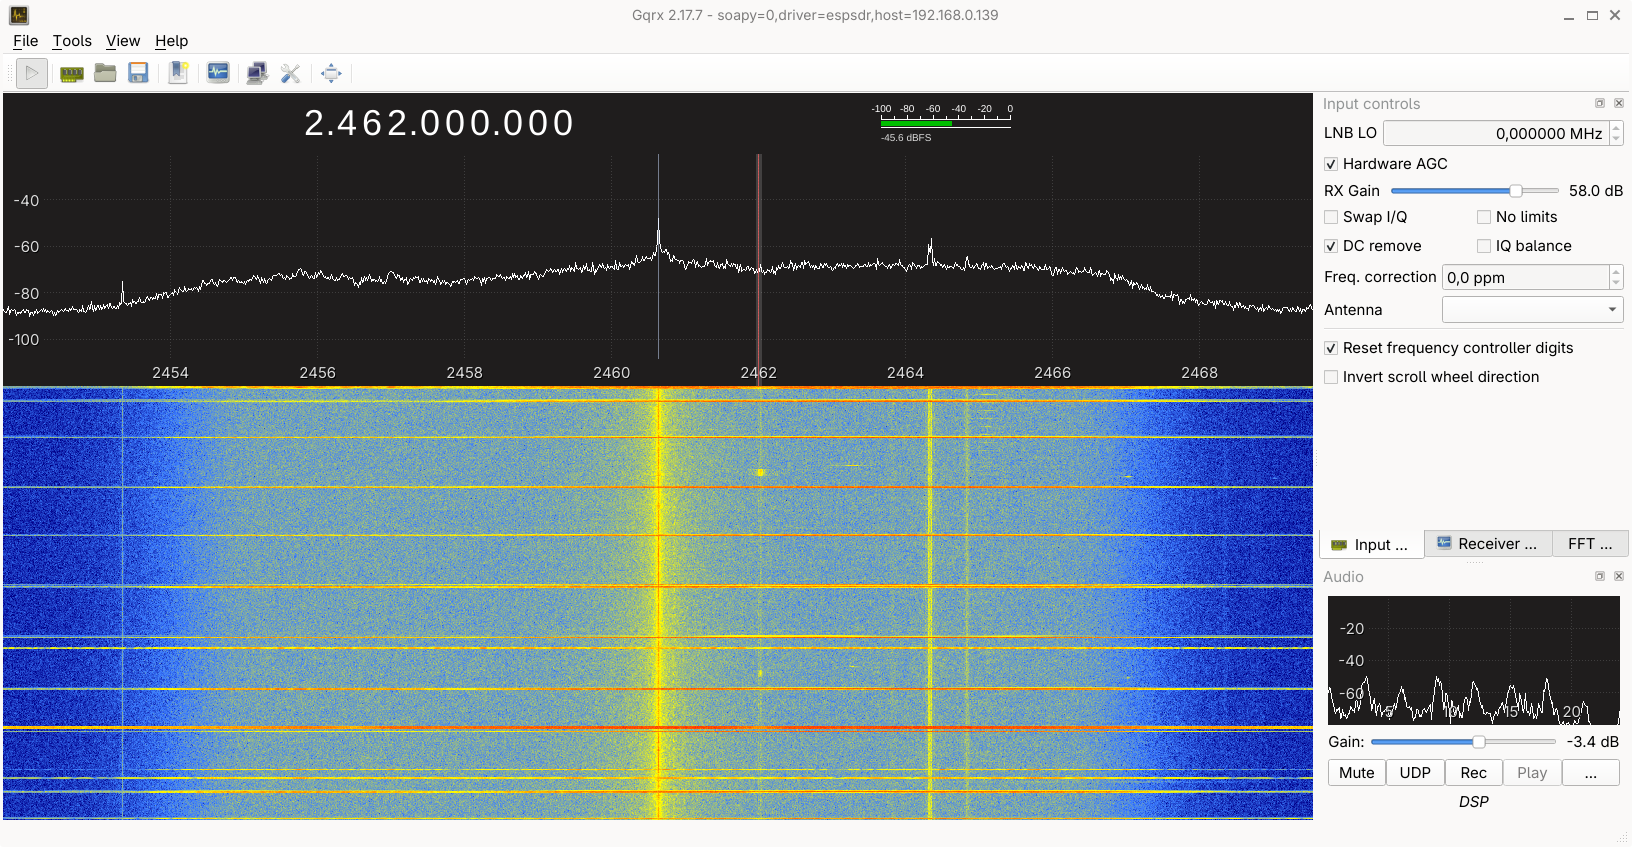
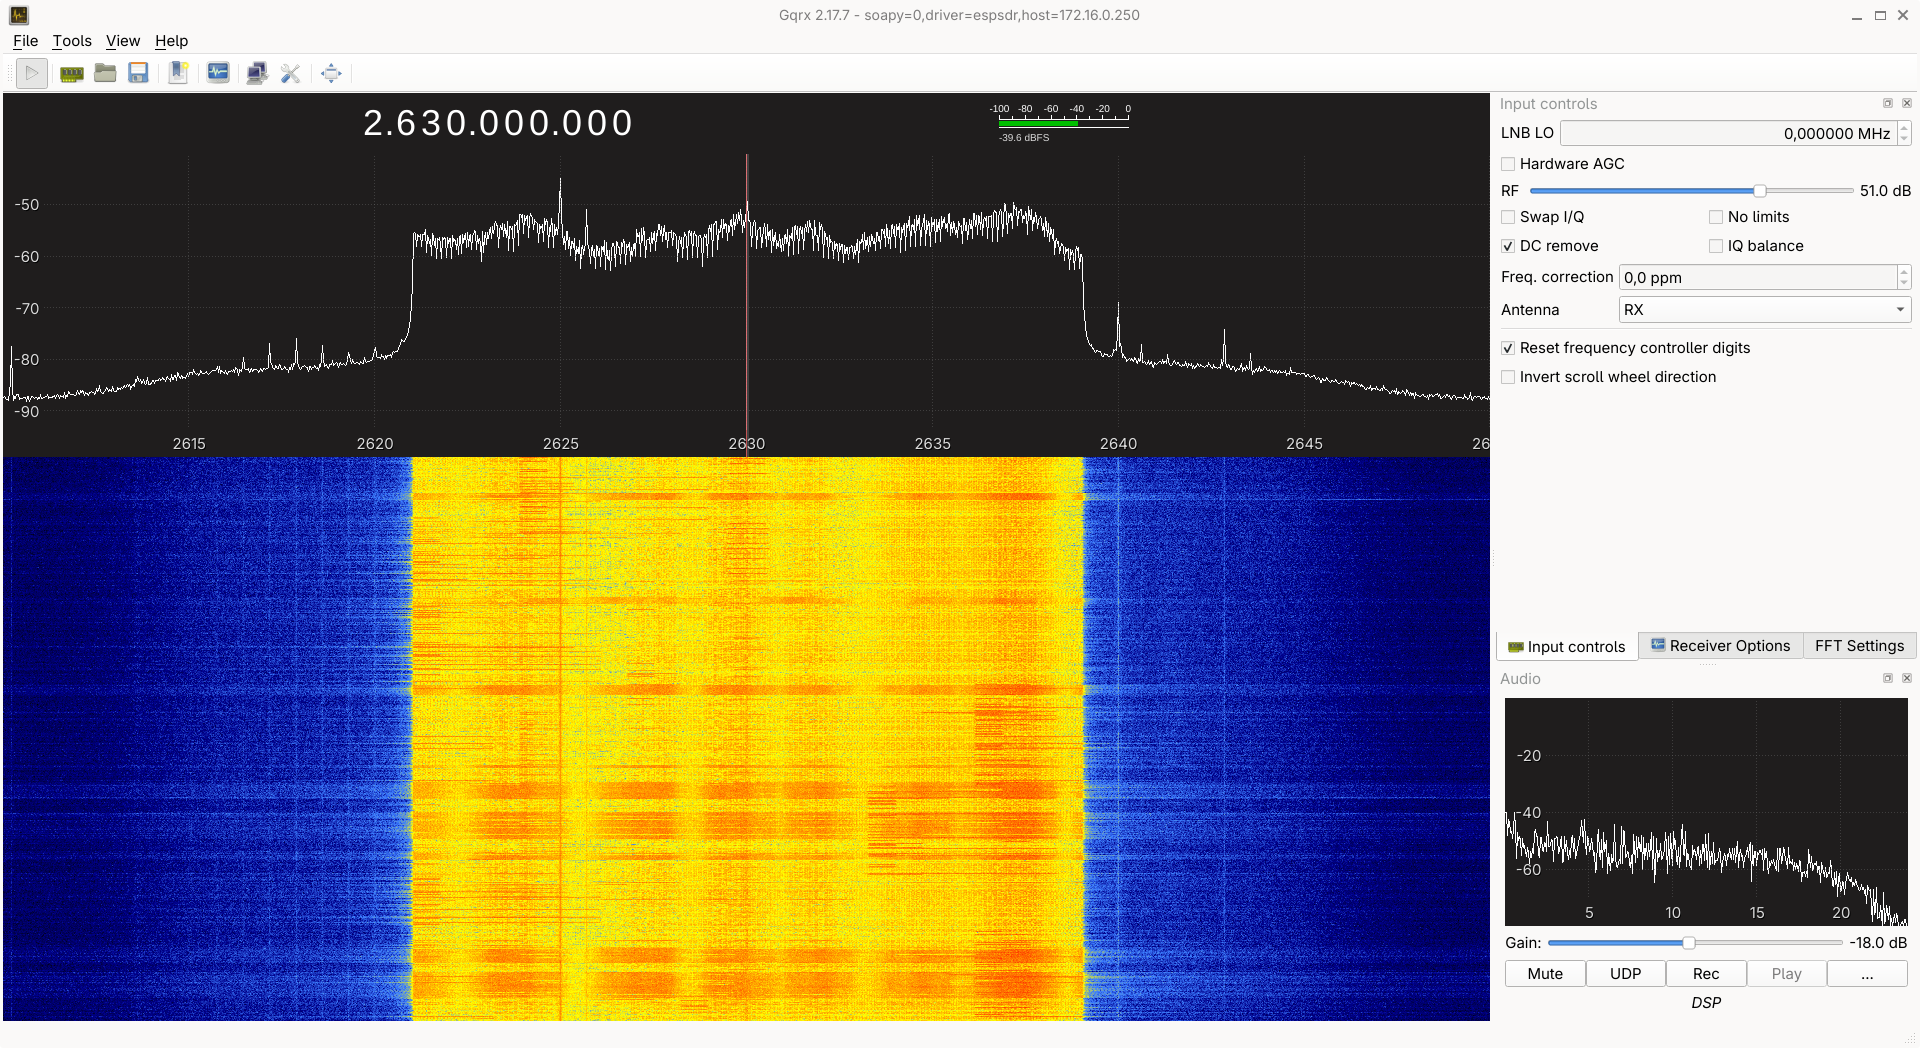
Update SoapyESPSDR info

diff --git a/site/content/espsdr/_index.html b/site/content/espsdr/_index.html
@@ -230,37 +230,71 @@ menu:
 			</figcaption>
 		</figure>
 		<p>
-			Therefore, our firmware streams the IQ samples at a very low duty cycle, which is enough to display a live spectrum and waterfall in the browser.
-			Packets that arrive between capture windows may be missed.
+			The serial burst-capture profiles transfer IQ samples at a low duty cycle, which is enough to display a live spectrum and waterfall in the browser.
+			Packets that arrive between capture windows may be missed. The ESP32-S31 streaming profile
+			offers continuous IQ reception over high-speed USB or Gigabit Ethernet, as described below.
 		</p>
 
-		<h2 id="soapyespsdr" class="fw-bold mb-3 mt-4">SoapyESPSDR: GNU Radio &amp; gqrx</h2>
+		<h2 id="soapyespsdr" class="fw-bold mb-3 mt-4">SoapyESPSDR: GNU Radio &amp; Gqrx</h2>
+		<div class="row row-cols-1 row-cols-sm-2 g-3 mb-4">
+			<div class="col">
+				<div class="border rounded-3 p-4 h-100">
+					<h3 class="h6 text-body-secondary mb-2">High-speed USB</h3>
+					<p class="h2 text-primary fw-bold mb-2">Up to 20 MSa/s</p>
+					<p class="mb-0">Continuous IQ reception through the native USB port.</p>
+				</div>
+			</div>
+			<div class="col">
+				<div class="border rounded-3 p-4 h-100">
+					<h3 class="h6 text-body-secondary mb-2">Gigabit Ethernet</h3>
+					<p class="h2 text-primary fw-bold mb-2">Up to 40 MSa/s</p>
+					<p class="mb-0">Continuous IQ reception over a gigabit network.</p>
+				</div>
+			</div>
+		</div>
 		<div class="row align-items-center g-4">
 			<div class="col-12 col-lg-5">
 				<p>
-					<a href="https://github.com/ESPARGOS/SoapyESPSDR">SoapyESPSDR</a> is our receive-only
-					SoapySDR driver for the <b>ESP32-S31</b>. It streams IQ samples over Gigabit Ethernet
-					from a board running ESP-SDR firmware, making the receiver available to applications such as
-					<b>GNU Radio</b> and <b>gqrx</b> through their SoapySDR support.
+					<a href="https://github.com/ESPARGOS/SoapyESPSDR">SoapyESPSDR</a> is our open-source,
+					receive-only SoapySDR driver for the <b>ESP32-S31</b>. It brings continuous IQ samples
+					to desktop applications: listen to signals in <b>Gqrx</b>, record samples, or build
+					your own demodulator in <b>GNU Radio</b>.
 				</p>
 				<p>
-					The S31 supports continuous reception at 8 and 16 MSa/s; higher sample rates require a reduced
-					duty cycle.
+					<b>Experimental:</b> The firmware and driver are available now. Signal quality may not yet be optimal.
 				</p>
-				<p>
-					<b>Under development:</b> We will release firmware and SoapySDR driver repositories soon, once everything is ready.
-				</p>
-				<button type="button" class="btn btn-secondary px-4" disabled aria-describedby="soapyespsdr-coming-soon">Download SoapyESPSDR</button>
-				<p id="soapyespsdr-coming-soon" class="text-muted small mt-2 mb-0">Coming soon.</p>
+				<section class="setup-step setup-step-compact border rounded p-3 my-2">
+					<h3 class="setup-step-heading h5 mt-0 mb-2">
+						<span class="setup-step-number">1</span>
+						<span>Flash the streaming firmware</span>
+					</h3>
+					<p class="mb-2">
+						Connect an <b>ESP32-S31 Function-CoreBoard</b> through its USB debug port or UART adapter.
+						In the web flasher, select the <b>ESP32-S31 Function-CoreBoard · Ethernet / USB for SoapyESPSDR</b> profile and install the firmware.
+					</p>
+					<a href="/espsdr/app/flash.html" class="btn btn-dark px-3">Open firmware flasher</a>
+				</section>
+				<section class="setup-step setup-step-compact border rounded p-3 mt-2 mb-0">
+					<h3 class="setup-step-heading h5 mt-0 mb-2">
+						<span class="setup-step-number">2</span>
+						<span>Connect your SDR application</span>
+					</h3>
+					<p class="mb-2">
+						Install SoapyESPSDR on your Linux computer, then connect the board through its
+						native high-speed USB port or Ethernet. Follow the setup guide to select the
+						receiver in Gqrx, GNU Radio, or another SoapySDR-compatible application.
+					</p>
+					<a href="https://github.com/ESPARGOS/SoapyESPSDR#build-and-install" class="btn btn-dark px-3">Install and set up SoapyESPSDR</a>
+				</section>
 			</div>
 			<figure class="col-12 col-lg-7 mb-0">
-				<a href="/espsdr/gqrx-esp-sdr.png" aria-label="View the gqrx screenshot at full size">
+				<a href="/espsdr/gqrx-esp-sdr.png" aria-label="View the Gqrx LTE screenshot at full size">
 					<img src="/espsdr/gqrx-esp-sdr.png" class="d-block img-fluid w-100 rounded-3"
-						alt="gqrx connected to an ESP32-S31 using the SoapyESPSDR driver, displaying the spectrum and waterfall around 2.462 GHz."
-						width="1632" height="847" loading="lazy">
+						alt="Gqrx displaying the spectrum and waterfall of an LTE signal at 2.63 GHz, continuously sampled at 40 MSa/s by an ESP32-S31 over Ethernet using SoapyESPSDR."
+						width="1920" height="1048" loading="lazy">
 				</a>
 				<figcaption class="text-muted text-center small mt-2">
-					ESP32-S31 IQ reception in gqrx through SoapyESPSDR. Click to view at full size.
+					LTE at 2.63 GHz, continuously sampled at 40 MSa/s over Ethernet with an ESP32-S31 and SoapyESPSDR, displayed in Gqrx. Click to view at full size.
 				</figcaption>
 			</figure>
 		</div>
@@ -268,6 +302,7 @@ menu:
 		<h2 class="fw-bold mb-3 mt-4">More information and firmware</h2>
 		<ul>
 			<li><a href="https://github.com/ESPARGOS/esp-sdr">ESP-SDR firmware</a>: firmware source code and build instructions.</li>
+			<li><a href="https://github.com/ESPARGOS/SoapyESPSDR">SoapyESPSDR driver</a>: installation and setup for desktop SDR applications.</li>
 			<li><a href="https://github.com/ESPARGOS/esp-web-sdr">ESP-WebSDR browser interface</a>: browser-based spectrum viewer and firmware flasher.</li>
 			<li>The firmware of <a href="https://espargos.net/espargos-one"><span class="text-gradient">ESPARGOS One</span></a> remains closed source for now, but we are considering on open-sourcing it now that this "secret" IQ functionality that we were keeping private has been revealed.</li>
 		</ul>
@@ -316,9 +351,10 @@ menu:
 				<div id="faqApplications" class="accordion-collapse collapse" aria-labelledby="faqApplicationsHeading" data-bs-parent="#espsdrFaq">
 					<div class="accordion-body">
 						<p class="mb-0">
-							Due to the low duty cycle achievable for most ESP32 models, it does not make much sense to use the SDR mode with these applications.
-							For the ESP32-S31, our <a href="#soapyespsdr">SoapyESPSDR driver</a> provides
-							integration with GNU Radio, gqrx and other SoapySDR-compatible applications over Gigabit Ethernet.
+							Yes: on the ESP32-S31, <a href="#soapyespsdr">SoapyESPSDR</a> connects GNU Radio,
+							Gqrx and other SoapySDR-compatible applications to continuous IQ reception at up to
+							20 MSa/s over high-speed USB or 40 MSa/s over Gigabit Ethernet. Other supported
+							ESP32 models use the browser viewer with the standard burst/FFT firmware profiles.
 						</p>
 					</div>
 				</div>
